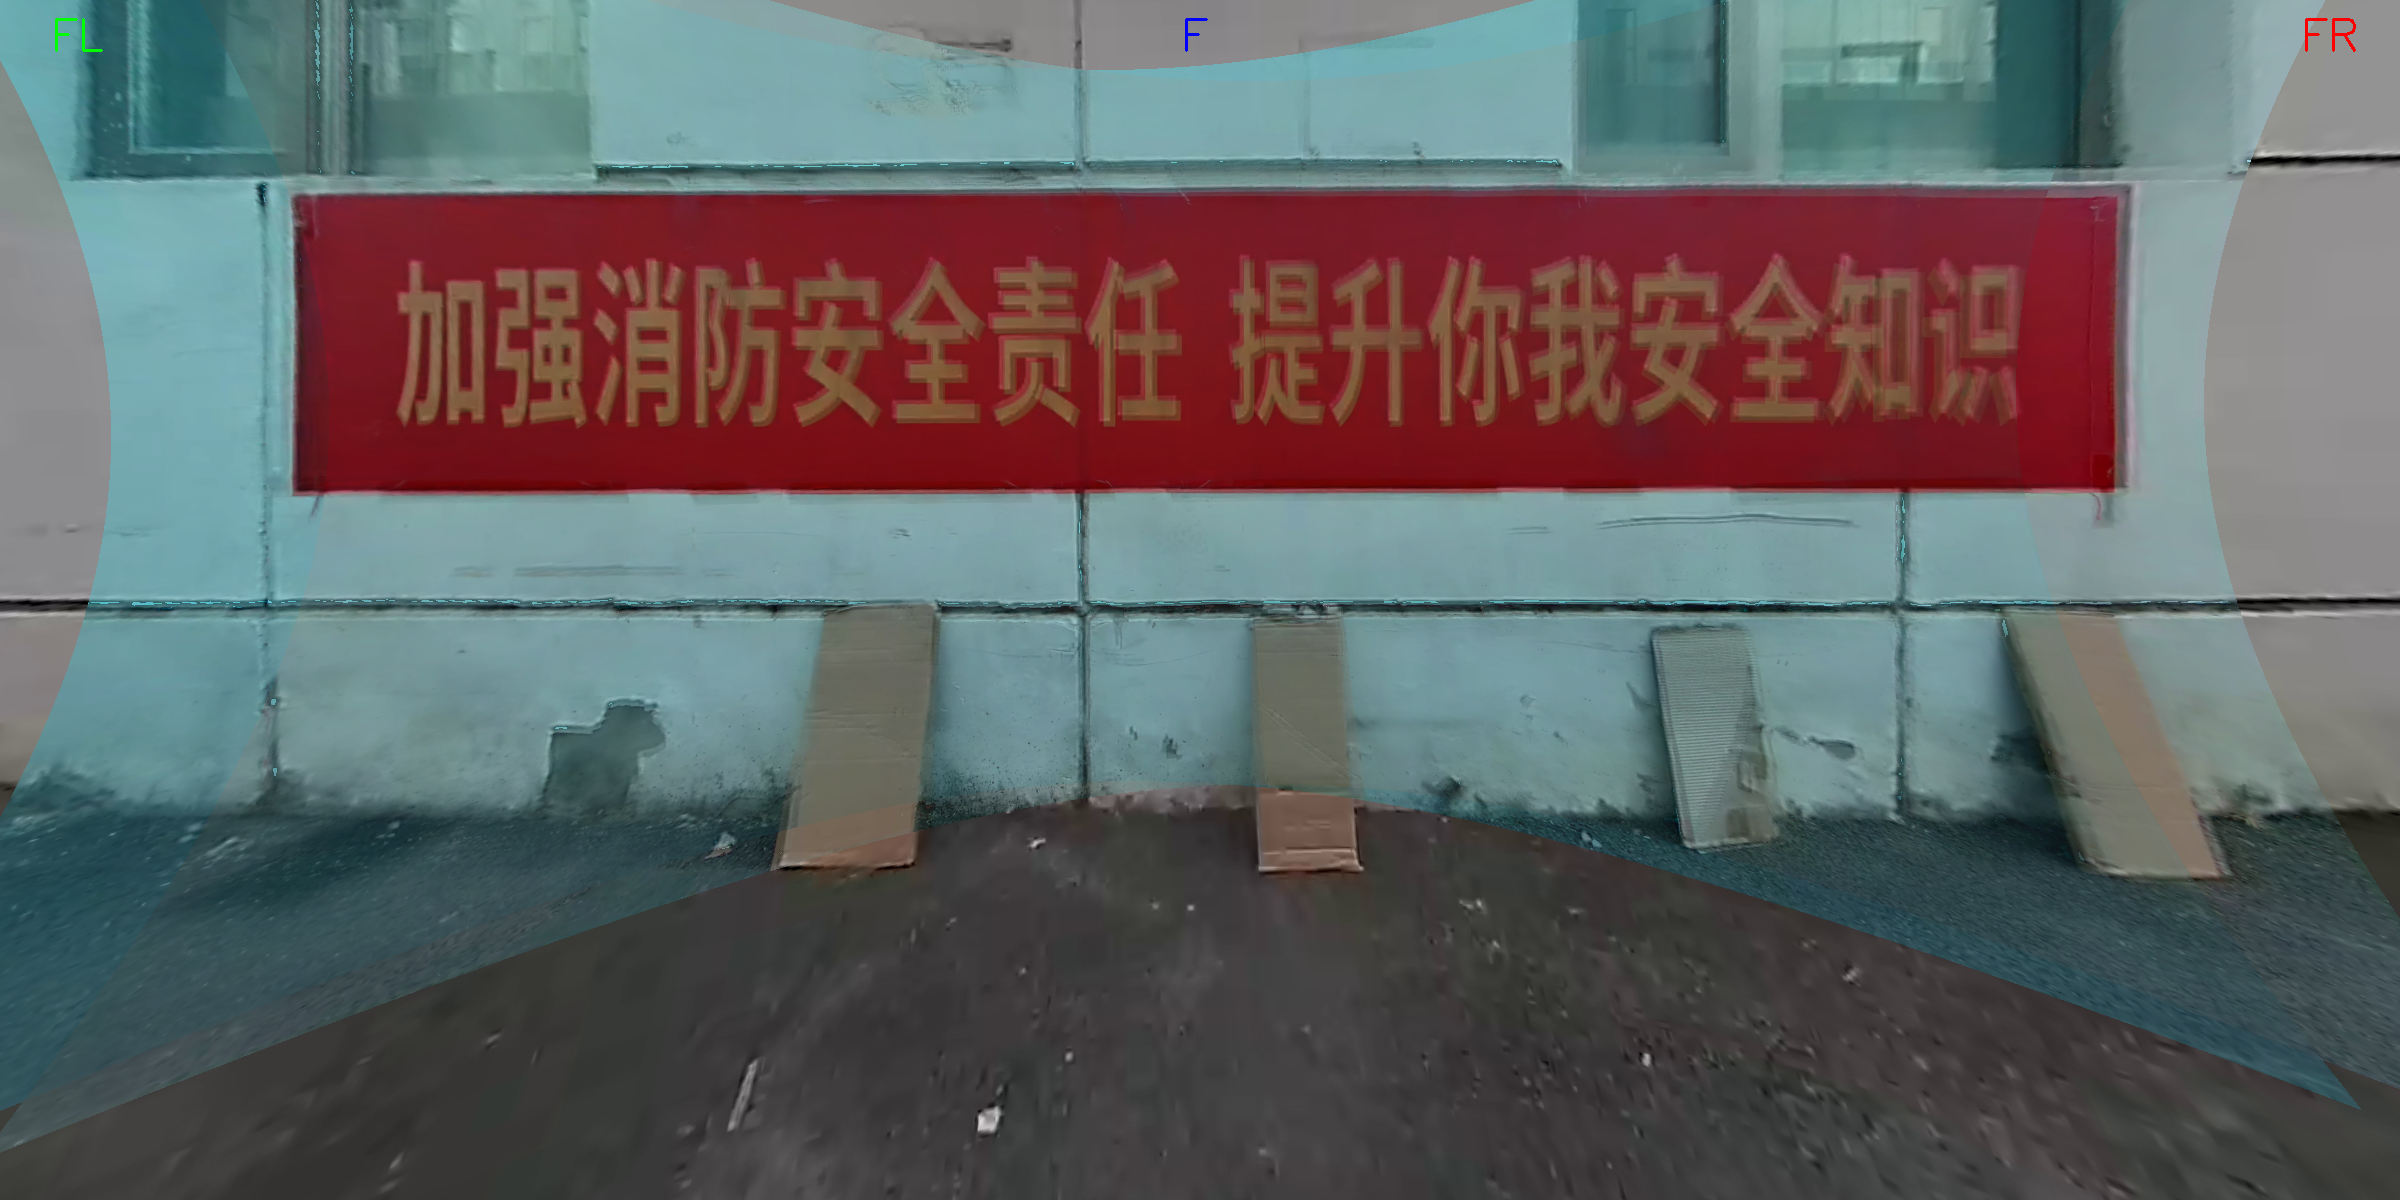
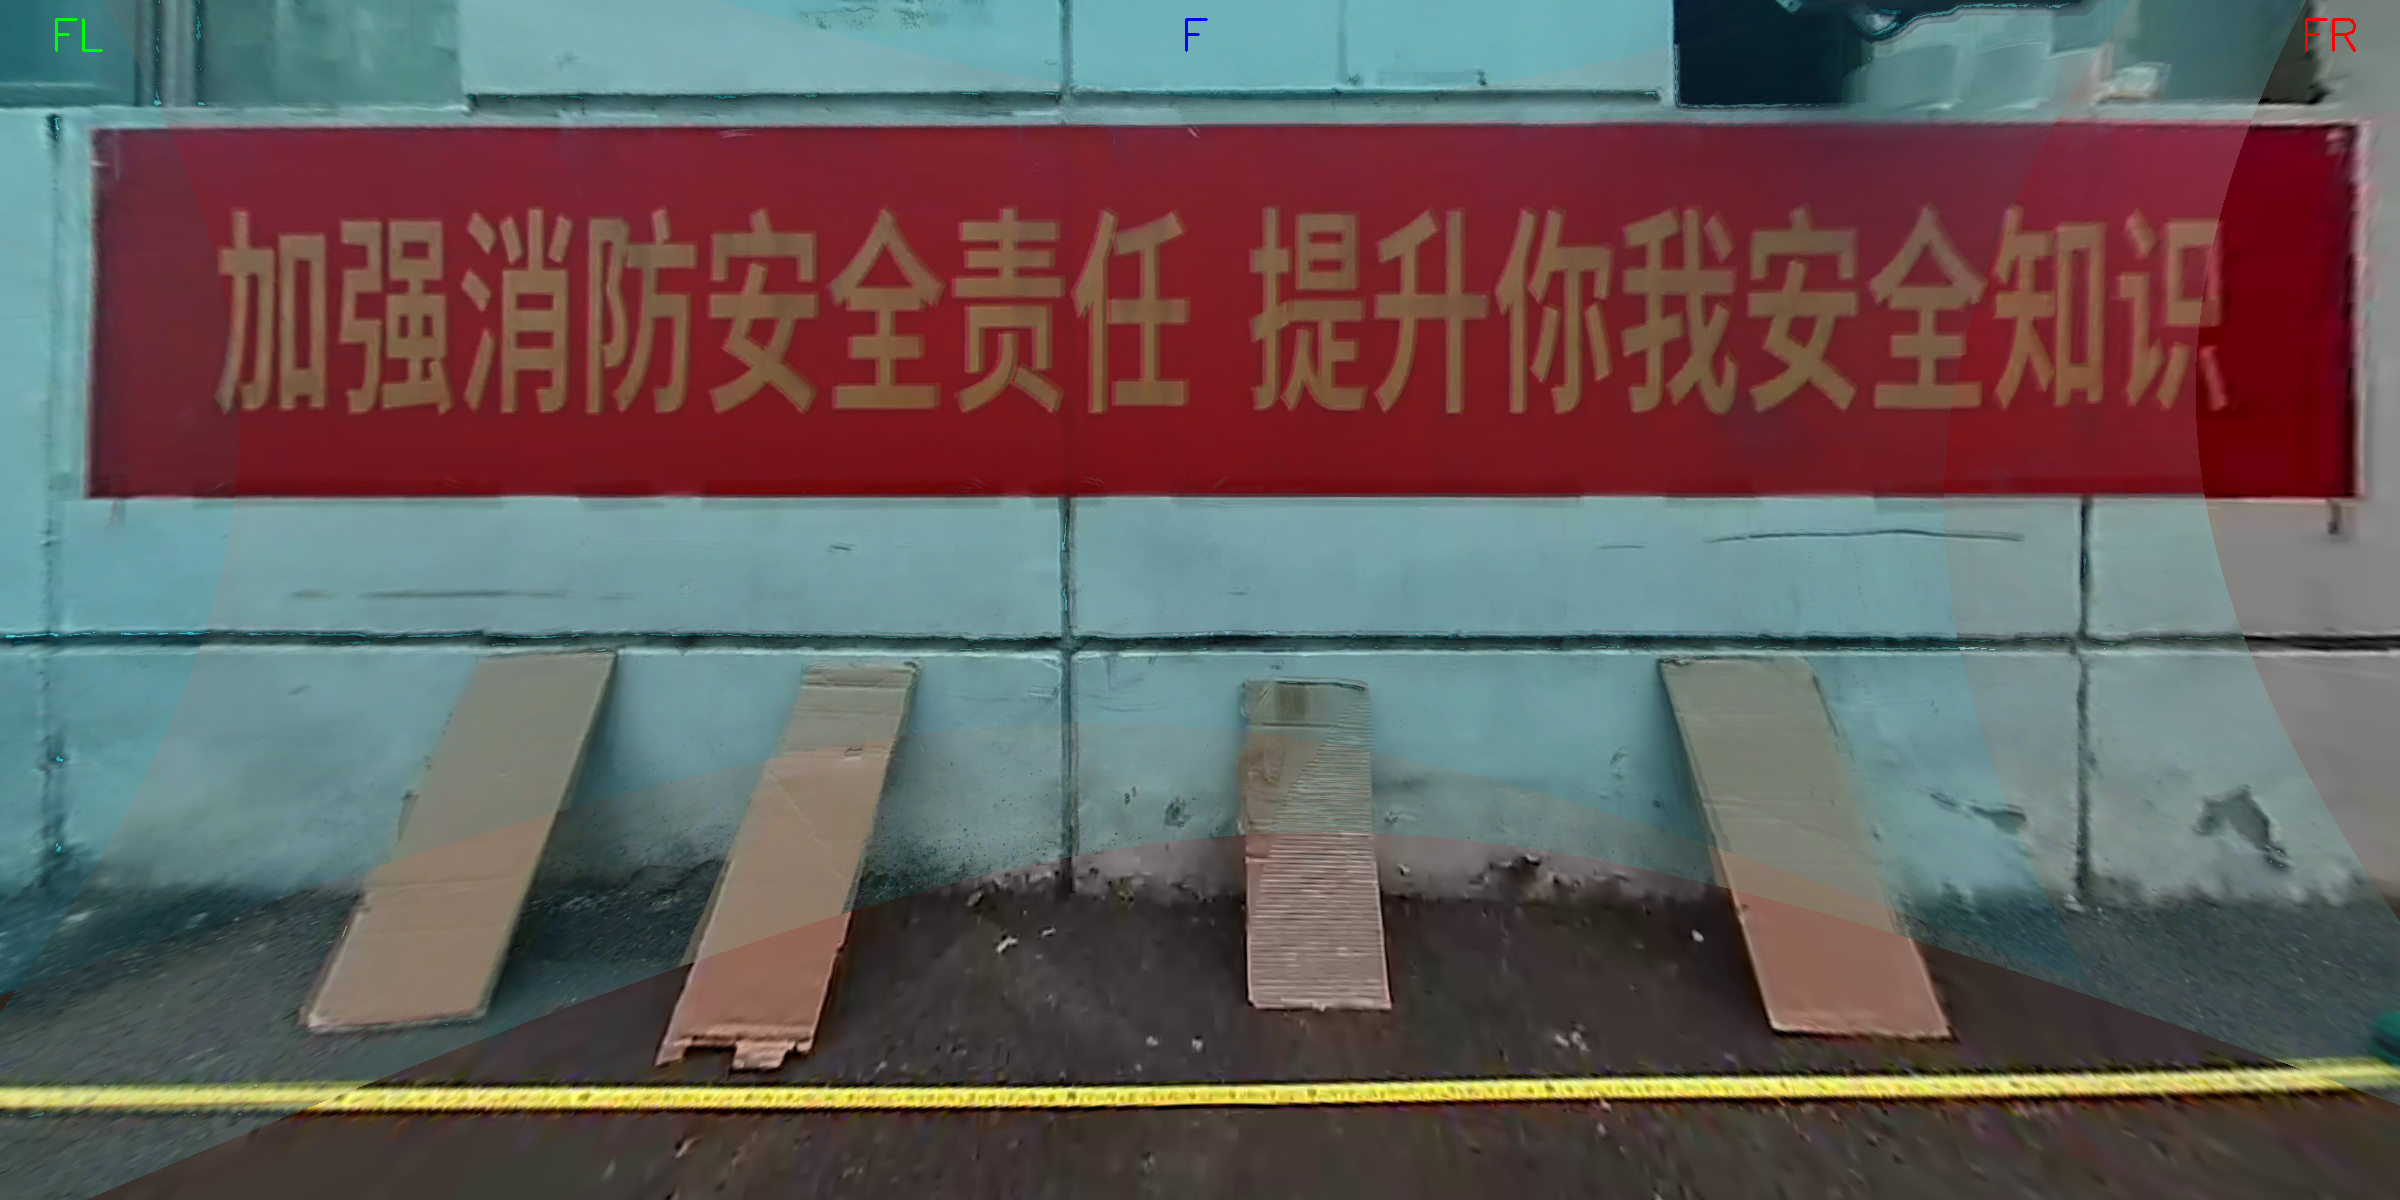
3_dog 前视标定

diff --git a/surround-camera/manual_calib_front3/src/run_front3_calib_v4.cpp b/surround-camera/manual_calib_front3/src/run_front3_calib_v4.cpp
@@ -628,9 +628,17 @@ int main(int argc, char **argv) {
     pangolin::Var<bool> btnSelectFR("cp.Cam: FR", false, false);
     pangolin::Var<string> currentCamera("cp.Current", "FL");
     
-    pangolin::Var<double> degreeStep("cp.deg step", 0.5, 0.1, 5);
-    pangolin::Var<double> tStep("cp.t(cm)", 5, 0, 100);
+    // Degree step slider - continuous range with exponential-like scale
+    pangolin::Var<double> degreeStep("cp.deg step", 0.5, 0.01, 4.0);
+    
+    // Translation step slider (in cm) - continuous range
+    pangolin::Var<double> tStep("cp.t step(cm)", 0.2, 0.01, 4.0);
+    
     pangolin::Var<double> wallDist("cp.wall(m)", wall_distance, 1, 20);
+    
+    // Predefined exponential step values
+    const double deg_steps[] = {0.01, 0.02, 0.04, 0.08, 0.1, 0.2, 0.4, 0.8, 1.0, 2.0, 4.0};
+    const double t_steps_cm[] = {0.01, 0.02, 0.04, 0.08, 0.1, 0.2, 0.4, 0.8, 1.0, 2.0, 4.0};
     
     // View mode buttons
     pangolin::Var<bool> btnViewAll("cp.View: All", false, false);
@@ -741,16 +749,18 @@ int main(int argc, char **argv) {
             cout << "Selected camera: FR (front_right)" << endl;
         }
         
+        // Handle degree step slider change
         if (degreeStep.GuiChanged()) {
             cali_scale_degree_ = degreeStep.Get();
             CalibrationScaleChange(cali_frame);
-            cout << "Degree step: " << cali_scale_degree_ << endl;
+            cout << "Degree step: " << cali_scale_degree_ << "°" << endl;
         }
         
+        // Handle translation step slider change (convert cm to m)
         if (tStep.GuiChanged()) {
-            cali_scale_trans_ = tStep.Get() / 100.0;
+            cali_scale_trans_ = tStep.Get() / 100.0;  // Convert cm to meters
             CalibrationScaleChange(cali_frame);
-            cout << "Trans step: " << cali_scale_trans_ * 100 << " cm" << endl;
+            cout << "Trans step: " << tStep.Get() << "cm" << endl;
         }
         
         if (wallDist.GuiChanged()) {
